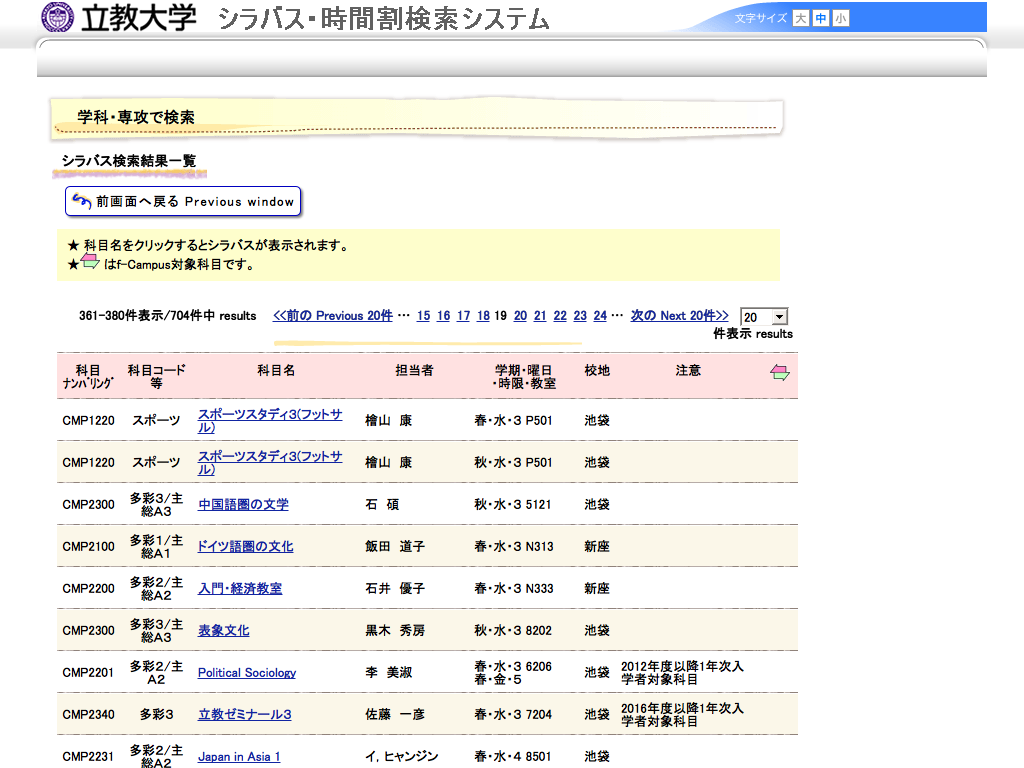
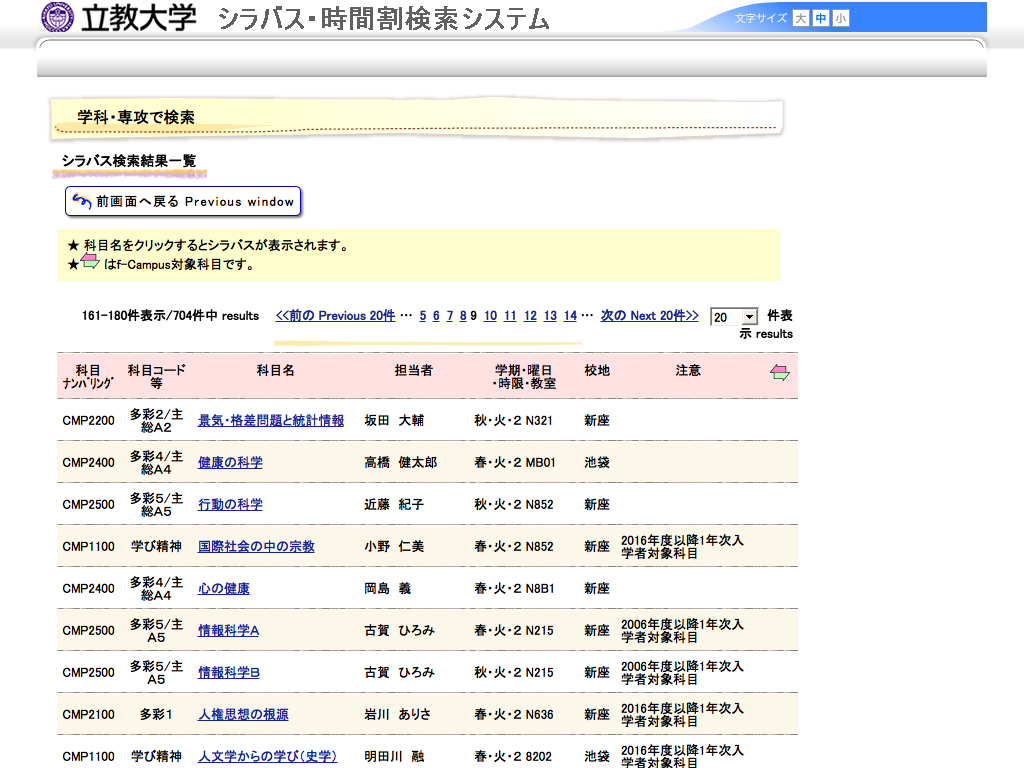
ページネーション移動の修正

diff --git a/capybara_crawler.rb b/capybara_crawler.rb
@@ -36,22 +36,10 @@ class CapybaraCrawler
 		@links
 	end
 
-	def find_links()
-    @links = []
-    all('a').each do |a|
-      u = a[:href]
-      next if u.nil? or u.empty?
-      @links << u
-			break if @links.length >= 10
-		end
-    @links.uniq!
-    @links
-	end
-
 	def next_page_exist
 		current_page = @session.first('b').text.to_i
-		if @session.first(:link, "#{current_page + 1}")
-			@session.first(:link, "#{current_page + 1}")
+		if @session.first(:link, "#{current_page + 1}", exact: true)
+			@session.first(:link, "#{current_page + 1}", exact: true)
 		else
 			false
 		end
@@ -61,6 +49,7 @@ class CapybaraCrawler
 	# 引数はcapybaraのnode elementを渡す
 	def click_link(link)
 		link.click
+		puts "遷移！"
 	end
 
 	def return_html
